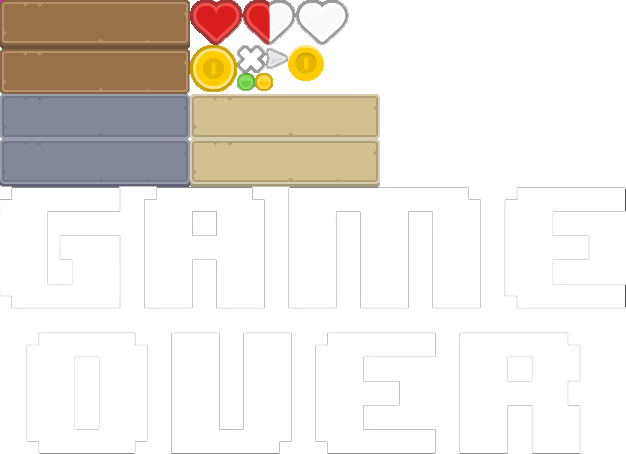
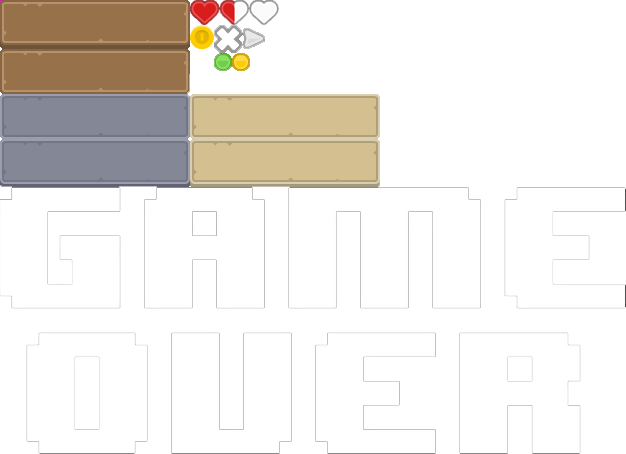
In-game UI updated

Changed region(s): [[0.3035, 0.0, 0.5767, 0.2159]]

diff --git a/Grip or Slip/Motor2D/j1Scene.cpp b/Grip or Slip/Motor2D/j1Scene.cpp
@@ -73,16 +73,22 @@ bool j1Scene::Start()
 	SpawnEntities();
 
 	//create gui
-	SDL_RenderGetViewport(App->render->renderer, &App->render->viewport);
+	ui_life1 = App->gui->AddUIElement(UI_Element::UI_type::IMAGE, UI_Element::Action::NONE, { 5,3 }, { 29,25 }, nullptr, true);
+	ui_life2 = App->gui->AddUIElement(UI_Element::UI_type::IMAGE, UI_Element::Action::NONE, { 37,3 }, { 29,25 }, nullptr, true);
+	ui_life3 = App->gui->AddUIElement(UI_Element::UI_type::IMAGE, UI_Element::Action::NONE, { 69,3 }, { 29,25 }, nullptr, true);
+	ui_coins = App->gui->AddUIElement(UI_Element::UI_type::IMAGE, UI_Element::Action::NONE, { 200,5 }, { 24,24 }, nullptr, true);
+	ui_game_over = App->gui->AddUIElement(UI_Element::UI_type::IMAGE, UI_Element::Action::NONE, { App->win->width / 2 - 313, App->win->height / 2 - 134 }, { 0,0 }, nullptr, false, { false, false });
+	ui_coins_text = App->gui->AddUIElement(UI_Element::UI_type::TEXT, UI_Element::Action::NONE, { 228,10 }, { 0,0 }, nullptr, true, { false, false }, "x0");
+	ui_score = App->gui->AddUIElement(UI_Element::UI_type::TEXT, UI_Element::Action::NONE, { App->win->width / 2 - 50, 10 }, { 0,0 }, nullptr, true, { false, false }, "Score: 0");
+	ui_timer = App->gui->AddUIElement(UI_Element::UI_type::TEXT, UI_Element::Action::NONE, { 950,10 }, { 0,0 }, nullptr, true, { false, false }, "Timer: 0s");
 
-	ui_life1 = App->gui->AddUIElement(UI_Element::UI_type::IMAGE, UI_Element::Action::NONE, { 0,0 }, { 54,45 }, nullptr, true);
-	ui_life2 = App->gui->AddUIElement(UI_Element::UI_type::IMAGE, UI_Element::Action::NONE, { 55,0 }, { 54,45 }, nullptr, true);
-	ui_life3 = App->gui->AddUIElement(UI_Element::UI_type::IMAGE, UI_Element::Action::NONE, { 110,0 }, { 54,45 }, nullptr, true);
-	ui_coins = App->gui->AddUIElement(UI_Element::UI_type::IMAGE, UI_Element::Action::NONE, { 200,0 }, { 47,47 }, nullptr, true);
-	ui_coins_text = App->gui->AddUIElement(UI_Element::UI_type::TEXT, UI_Element::Action::NONE, { 250,0 }, { 0,0 }, nullptr, true, { false, false }, "x0");
-	ui_score = App->gui->AddUIElement(UI_Element::UI_type::TEXT, UI_Element::Action::NONE, { 500,0 }, { 0,0 }, nullptr, true, { false, false }, "Score: 0");
-	ui_timer = App->gui->AddUIElement(UI_Element::UI_type::TEXT, UI_Element::Action::NONE, { 950,0 }, { 0,0 }, nullptr, true, { false, false }, "Timer: 0s");
+	ui_coins_text->color = { 255,255,255,255 }; //white
+	ui_score->color = { 255,255,255,255 };
+	ui_timer->color = { 255,255,255,255 };
 
+	coins_bg = { 193,3,70,30 };
+	score_bg = { App->win->width/2 - 57, 5,85,25 };
+	timer_bg = { 945,6,70,25 };
 	return true;
 }
 
@@ -91,10 +97,6 @@ bool j1Scene::PreUpdate()
 {
 	BROFILER_CATEGORY("Scene PreUpdate", Profiler::Color::DarkOrange);
 
-	if (player_lives <= 0)
-	{
-		return false;
-	}
 	//LOG("IsChanging: %i", App->scenechange->IsChanging());
 
 	//// debug pathfing ------------------
@@ -195,40 +197,47 @@ bool j1Scene::Update(float dt)
 	p2List_item<UI_Element*>* item = App->gui->UI_elements.end;
 	while (item != nullptr)
 	{
-		//if(item->data->type != UI_Element::UI_type::IMAGE && item->data->type != UI_Element::UI_type::TEXT)
-		if (App->gui->CheckMousePos(item->data) == true && App->gui->dragging == false) //hovering
+		if (item->data->type != UI_Element::UI_type::IMAGE && item->data->type != UI_Element::UI_type::TEXT)
 		{
-			item->data->state = UI_Element::State::HOVER;
-			if (App->gui->CheckClick(item->data) == true) //on-click
+			if (App->gui->CheckMousePos(item->data) == true && App->gui->dragging == false) //hovering
 			{
-				if (item->data->dragable.x == false && item->data->dragable.y == false)
+				item->data->state = UI_Element::State::HOVER;
+				if (App->gui->CheckClick(item->data) == true) //on-click
 				{
-					item->data->state = UI_Element::State::LOGIC;
-					item->data->DoLogic(item->data->action);
-
-					if (item->data->children.start != nullptr)
+					if (item->data->dragable.x == false && item->data->dragable.y == false)
 					{
-						item->data->children.start->data->Center(true, true);
+						item->data->state = UI_Element::State::LOGIC;
+						item->data->DoLogic(item->data->action);
+
+						if (item->data->children.start != nullptr)
+						{
+							item->data->children.start->data->Center(true, true);
+						}
+					}
+					else
+					{
+						item->data->state = UI_Element::State::DRAG;
 					}
 				}
-				else
-				{
-					item->data->state = UI_Element::State::DRAG;
-				}
 			}
-		}
-		if (item->data->state == UI_Element::State::DRAG && App->gui->CheckClick(item->data) == true)
-		{
-			App->gui->dragging = true;
-			item->data->Drag();
-			App->gui->UpdateChildren();
-		}
-		else if (App->gui->CheckMousePos(item->data) == false && item->data->state != UI_Element::State::DRAG)
-		{
-			item->data->state = UI_Element::State::IDLE; //change to idle
+			if (item->data->state == UI_Element::State::DRAG && App->gui->CheckClick(item->data) == true)
+			{
+				App->gui->dragging = true;
+				item->data->Drag();
+				App->gui->UpdateChildren();
+			}
+			else if (App->gui->CheckMousePos(item->data) == false && item->data->state != UI_Element::State::DRAG)
+			{
+				item->data->state = UI_Element::State::IDLE; //change to idle
+			}
 		}
 		item = item->prev;
 	}
+	
+	App->render->DrawQuad(coins_bg, 0, 0, 0, 160, true, false);
+	App->render->DrawQuad(score_bg, 0, 0, 0, 160, true, false);
+	App->render->DrawQuad(timer_bg, 0, 0, 0, 160, true, false);
+
 	coins++;
 	UpdateSimpleUI();
 	App->gui->Draw();
@@ -242,6 +251,11 @@ bool j1Scene::PostUpdate()
 	BROFILER_CATEGORY("Scene PostUpdate", Profiler::Color::DarkOrange);
 
 	bool ret = true;
+
+	if (player_lives <= 0)
+	{
+		ui_game_over->SetVisible();
+	}
 
 	if (change == true) //rotate map and change
 	{
@@ -503,17 +517,17 @@ void j1Scene::UpdateSimpleUI()
 			{
 				if (player_lives >= 2)
 				{
-					item->data->rect = { 190,0,53,45 }; //full
+					item->data->rect = { 190,0,30,25 }; //full
 					break;
 				}
 				else if (player_lives == 1)
 				{
-					item->data->rect = { 242,0,54,45 }; //half
+					item->data->rect = { 219,0,30,25 }; //half
 					break;
 				}
 				else
 				{
-					item->data->rect = { 295,0,54,45 }; //empty
+					item->data->rect = { 249,0,30,25 }; //empty
 					break;
 				}
 			}
@@ -521,17 +535,17 @@ void j1Scene::UpdateSimpleUI()
 			{
 				if (player_lives >= 4)
 				{
-					item->data->rect = { 190,0,53,45 }; //full
+					item->data->rect = { 190,0,30,25 }; //full
 					break;
 				}
 				else if (player_lives == 3)
 				{
-					item->data->rect = { 242,0,54,45 }; //half
+					item->data->rect = { 219,0,30,25 }; //half
 					break;
 				}
 				else
 				{
-					item->data->rect = { 295,0,54,45 }; //empty
+					item->data->rect = { 249,0,30,25 }; //empty
 					break;
 				}
 			}
@@ -539,23 +553,28 @@ void j1Scene::UpdateSimpleUI()
 			{
 				if (player_lives == 6)
 				{
-					item->data->rect = { 190,0,53,45 }; //full
+					item->data->rect = { 190,0,30,25 }; //full
 					break;
 				}
 				else if (player_lives == 5)
 				{
-					item->data->rect = { 242,0,54,45 }; //half
+					item->data->rect = { 219,0,30,25 }; //half
 					break;
 				}
 				else
 				{
-					item->data->rect = { 295,0,54,45 }; //empty
+					item->data->rect = { 249,0,30,25 }; //empty
 					break;
 				}
 			}
 			else if (item->data == ui_coins) //Coins
 			{
-				item->data->rect = { 190,45,47,47 };
+				item->data->rect = { 190,25,24,24 };
+				break;
+			}
+			else if (item->data == ui_game_over)
+			{
+				item->data->rect = { 0,187,626,267 };
 				break;
 			}
 

diff --git a/Grip or Slip/Motor2D/j1Gui.cpp b/Grip or Slip/Motor2D/j1Gui.cpp
@@ -126,7 +126,7 @@ bool j1Gui::Draw()
 			if (UI_elem->data->type == UI_elem->data->TEXT) //text
 			{
 				App->tex->UnLoad(UI_elem->data->texture);
-				UI_elem->data->texture = App->font->Print(UI_elem->data->label, { 255,0,0,255 });
+				UI_elem->data->texture = App->font->Print(UI_elem->data->label, UI_elem->data->color);
 				App->font->CalcSize(UI_elem->data->label, UI_elem->data->size.x, UI_elem->data->size.y);
 
 				App->render->Blit(UI_elem->data->texture, UI_elem->data->globalpos.x, UI_elem->data->globalpos.y, 0, SDL_FLIP_NONE, 0);

diff --git a/Grip or Slip/Motor2D/JustSimpleUI.cpp b/Grip or Slip/Motor2D/JustSimpleUI.cpp
@@ -27,7 +27,7 @@ JustSimpleUI::JustSimpleUI(UI_type Type, iPoint pos, iPoint Size, UI_Element* Pa
 	visible = Visible;
 	dragable = Dragable;
 
-	texture = App->font->Print(label, { 255,0,0,255 });
+	texture = App->font->Print(label, color);
 	App->font->CalcSize(label, size.x, size.y);
 
 	collider = { position.x, position.y, size.x, size.y };

diff --git a/Grip or Slip/Motor2D/j1Scene.h b/Grip or Slip/Motor2D/j1Scene.h
@@ -89,7 +89,11 @@ public:
 	UI_Element* ui_resume;
 	UI_Element* ui_main_menu;
 
+	UI_Element* ui_game_over;
 
+	SDL_Rect coins_bg;
+	SDL_Rect score_bg;
+	SDL_Rect timer_bg;
 
 };
 

diff --git a/Grip or Slip/Motor2D/UI_Element.h b/Grip or Slip/Motor2D/UI_Element.h
@@ -110,6 +110,7 @@ public:
 public:
 	SDL_Rect rect;
 	SDL_Texture* texture;
+	SDL_Color color;
 
 	UI_type type;
 	Action action;
